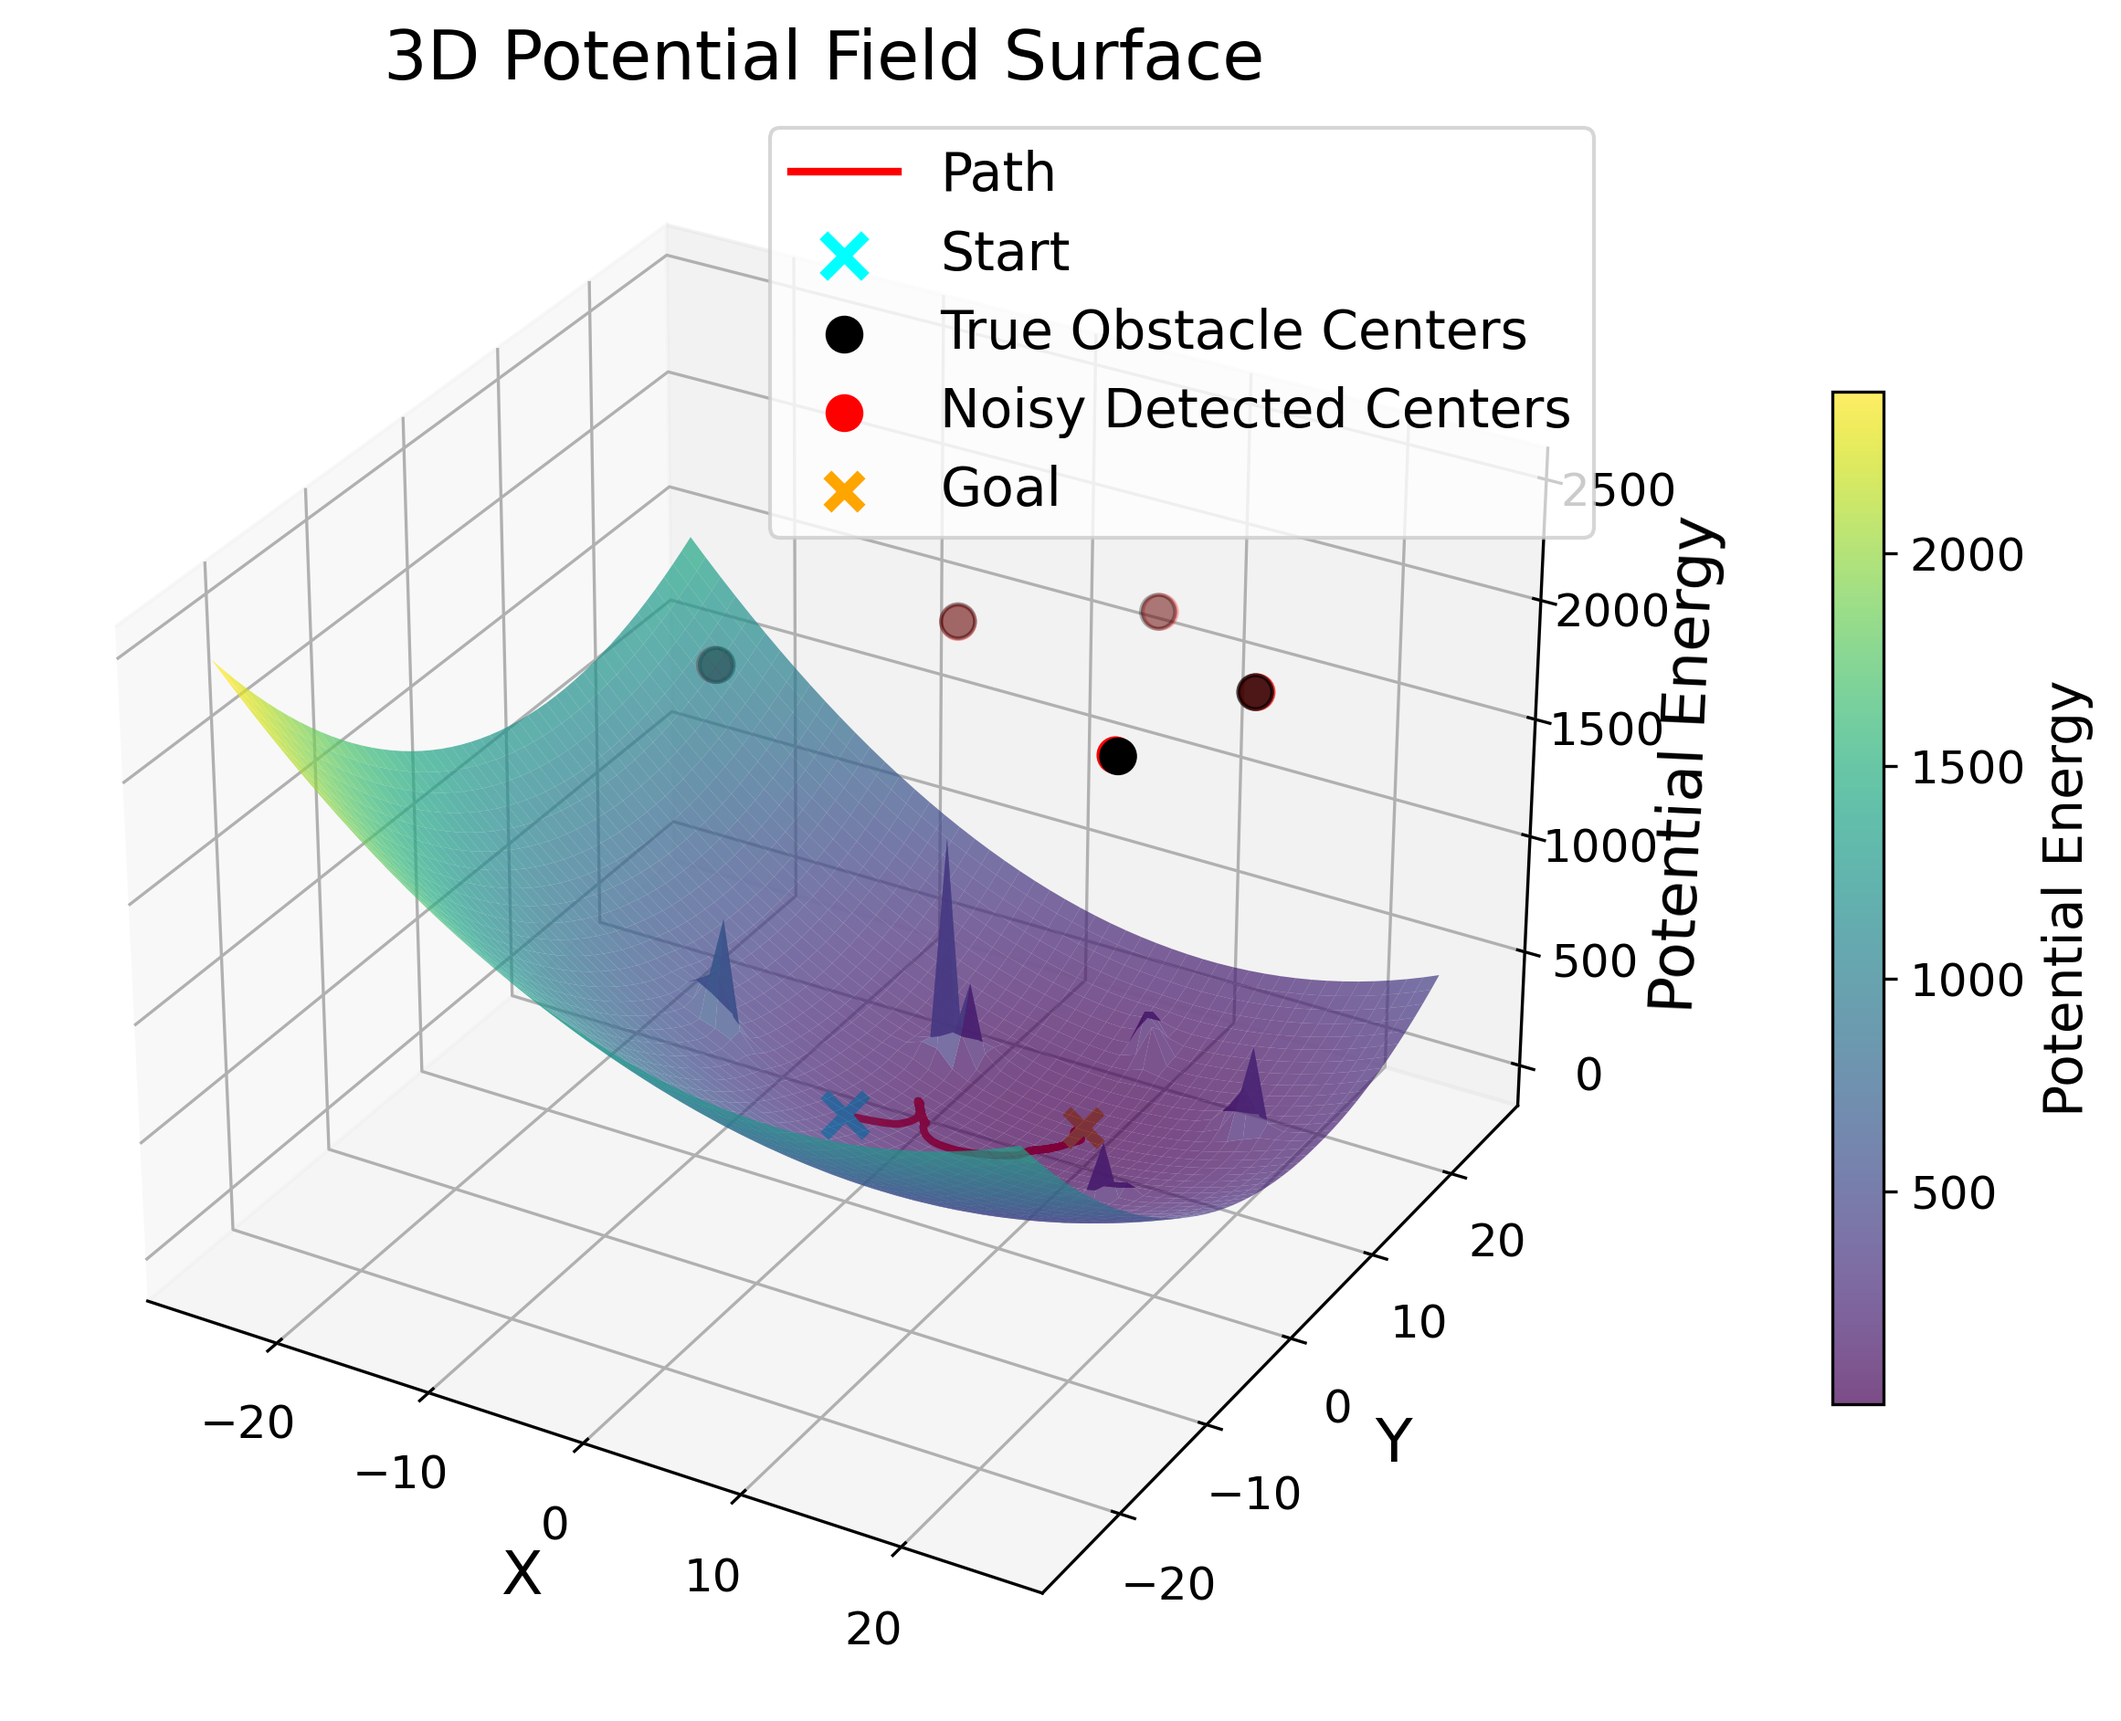
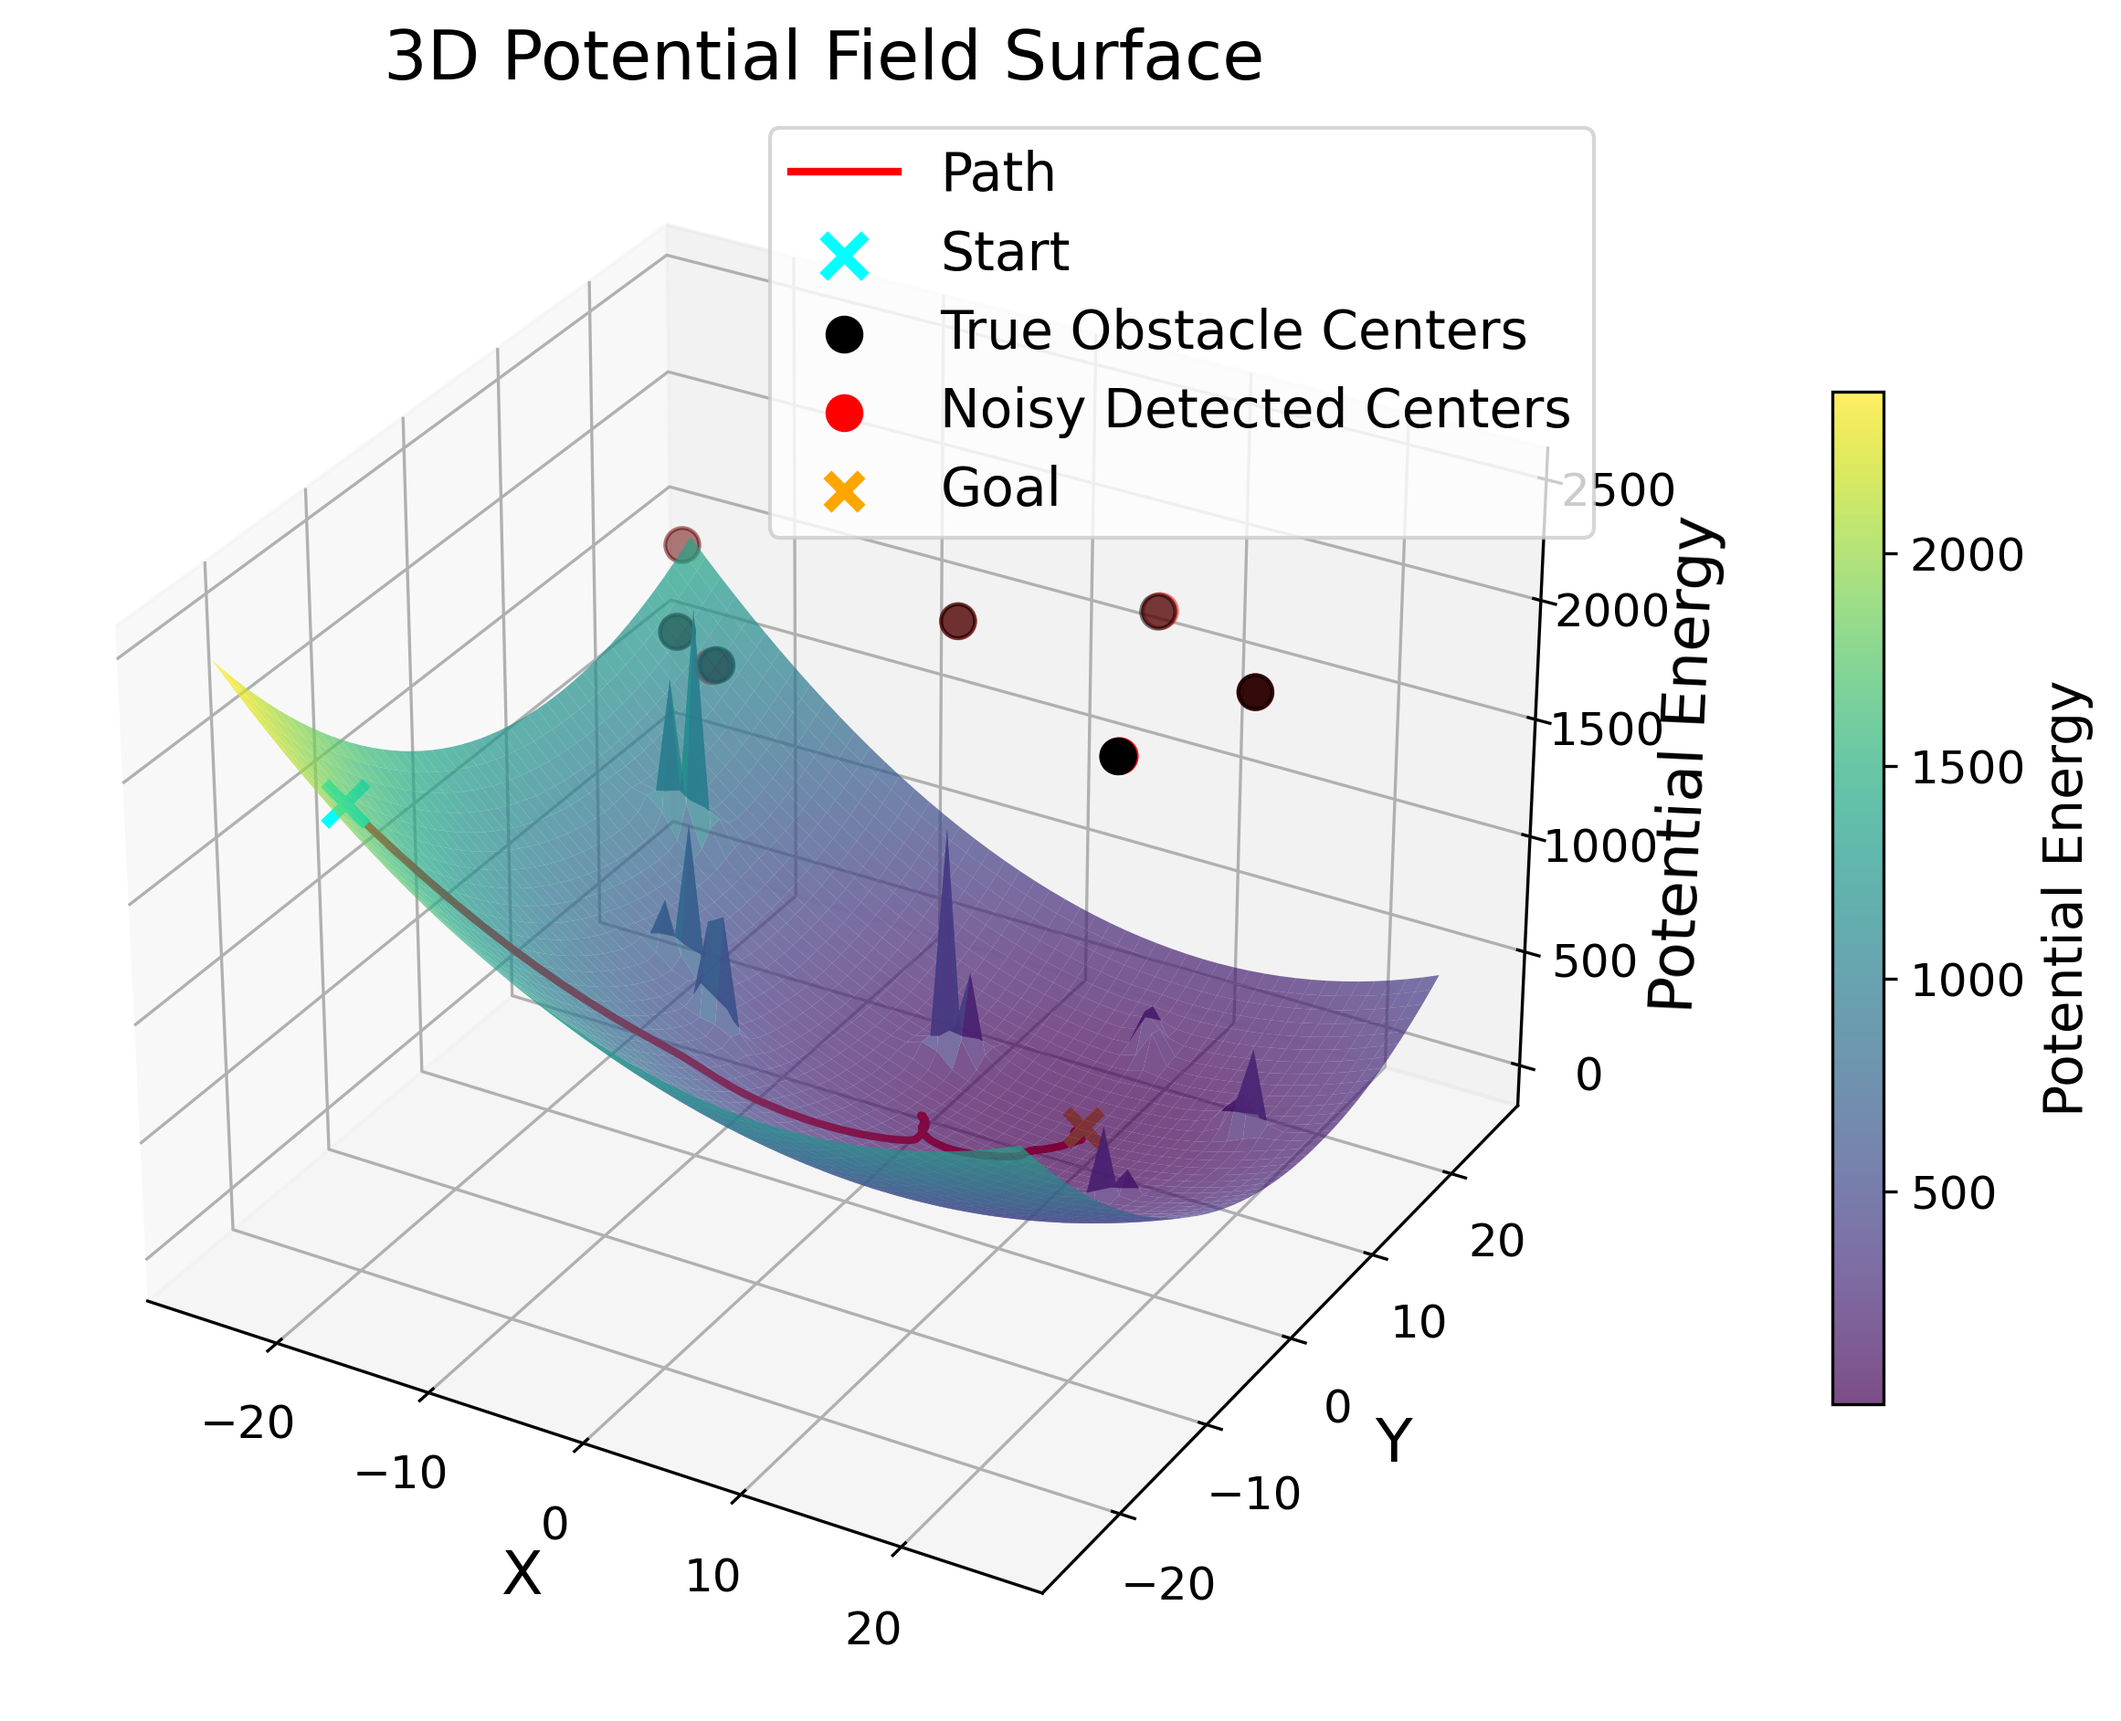
obstacle penetration

diff --git a/local_potential_field_demo_dynamic.py b/local_potential_field_demo_dynamic.py
@@ -15,15 +15,15 @@ from matplotlib.patches import Ellipse
 os.makedirs("figures", exist_ok=True)
 
 q_goal = np.array([10, 10]) # goal position
-q = np.array([0.0, 0.0]) # starting position of the robot
+q = np.array([-20.0, -20.0]) # starting position of the robot
 
 # obstacle coordinates 
-obstacles_true = np.array([[3, 3.5], [6,7], [9,9], [8,4], [5,5]])
+obstacles_true = np.array([[-5,-5], [-3,-3], [3, 3.5], [6,7], [9,9], [8,4], [5,5]])
 sigma = 0.1  # 10 cm uncertainity
 obstacles_noisy = obstacles_true + np.random.normal(0, sigma, obstacles_true.shape)
 
 # obstacle speeds
-obstacle_speeds = np.array([[0.1, 0.2], [-0.2, -0.1], [0.1, -0.1], [-0.1, 0.1], [0.2, 0.1]])
+obstacle_speeds = np.array([[-0.1, 0.1], [-0.2, 0.2], [0.1, 0.2], [-0.2, -0.1], [0.1, -0.1], [-0.1, 0.1], [0.2, 0.1]])
 obstacle_speeds = obstacle_speeds * 5
 
 # APF parameters
@@ -39,7 +39,7 @@ alpha = 1.2   # major scaling (large)
 beta  = 0.3   # minor scaling (small)
 
 # each obstacle has a size factor: 1 = normal, >1 = large, <1 = small
-sizes = np.array([1.0, 1.3, 0.8, 1.6, 1.1])
+sizes = np.array([1.2, 1.5, 1.0, 1.3, 0.8, 1.6, 1.1])
 # incorporate static size
 a_base = a0 * sizes
 b_base = b0 * sizes
